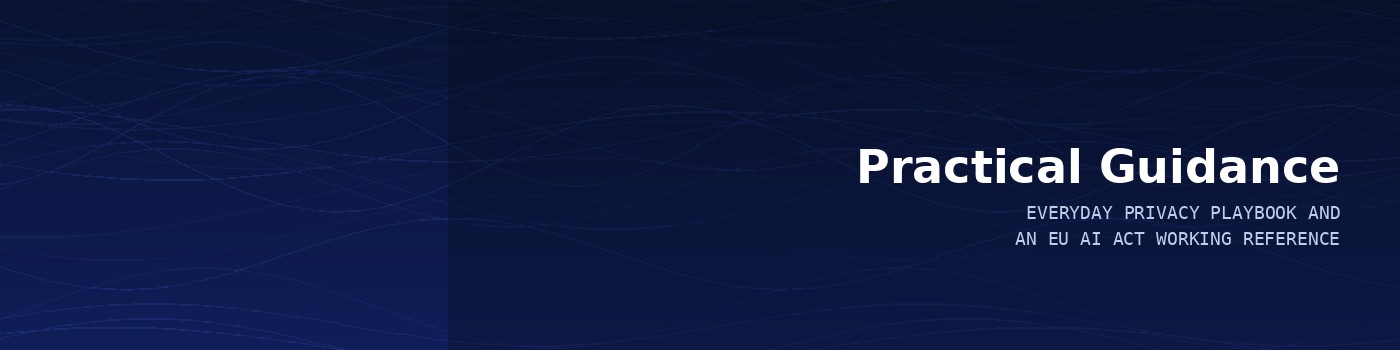
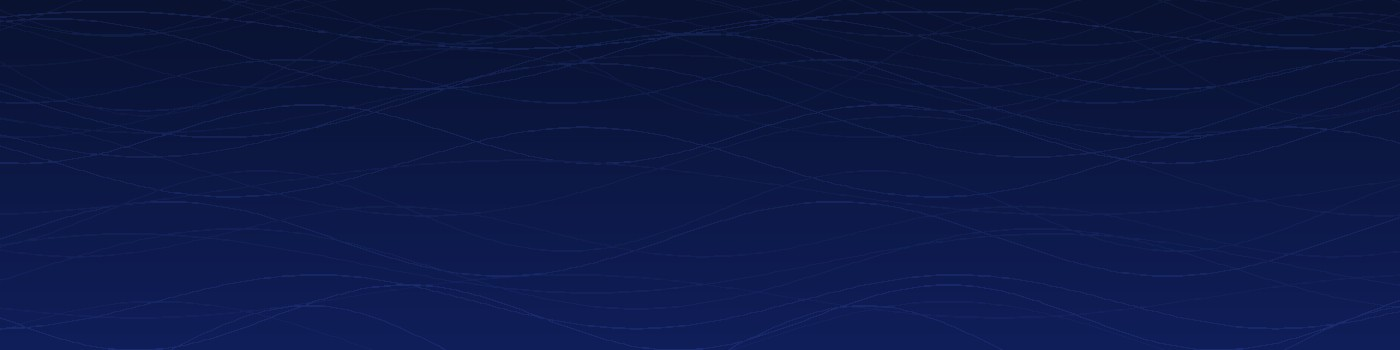
page change

diff --git a/index.html b/index.html
@@ -126,7 +126,7 @@ function OptanonWrapper() { }
 							</div>
 						</section>
 						<section>
-							<a href="privacy-ai-assessment.html#practical-privacy" class="image"><img src="images/pic07.jpg" alt="Practical Privacy and AI Act Advice" data-position="70% 40%" /></a>
+							<a href="privacy-ai-assessment.html#practical-privacy" class="image"><img src="images/pic07.jpg" alt="Practical Privacy and AI Act Advice" data-position="center center" /></a>
 							<div class="content">
 								<div class="inner">
 									<h2>Practical Privacy &amp; AI Act Advice</h2>
